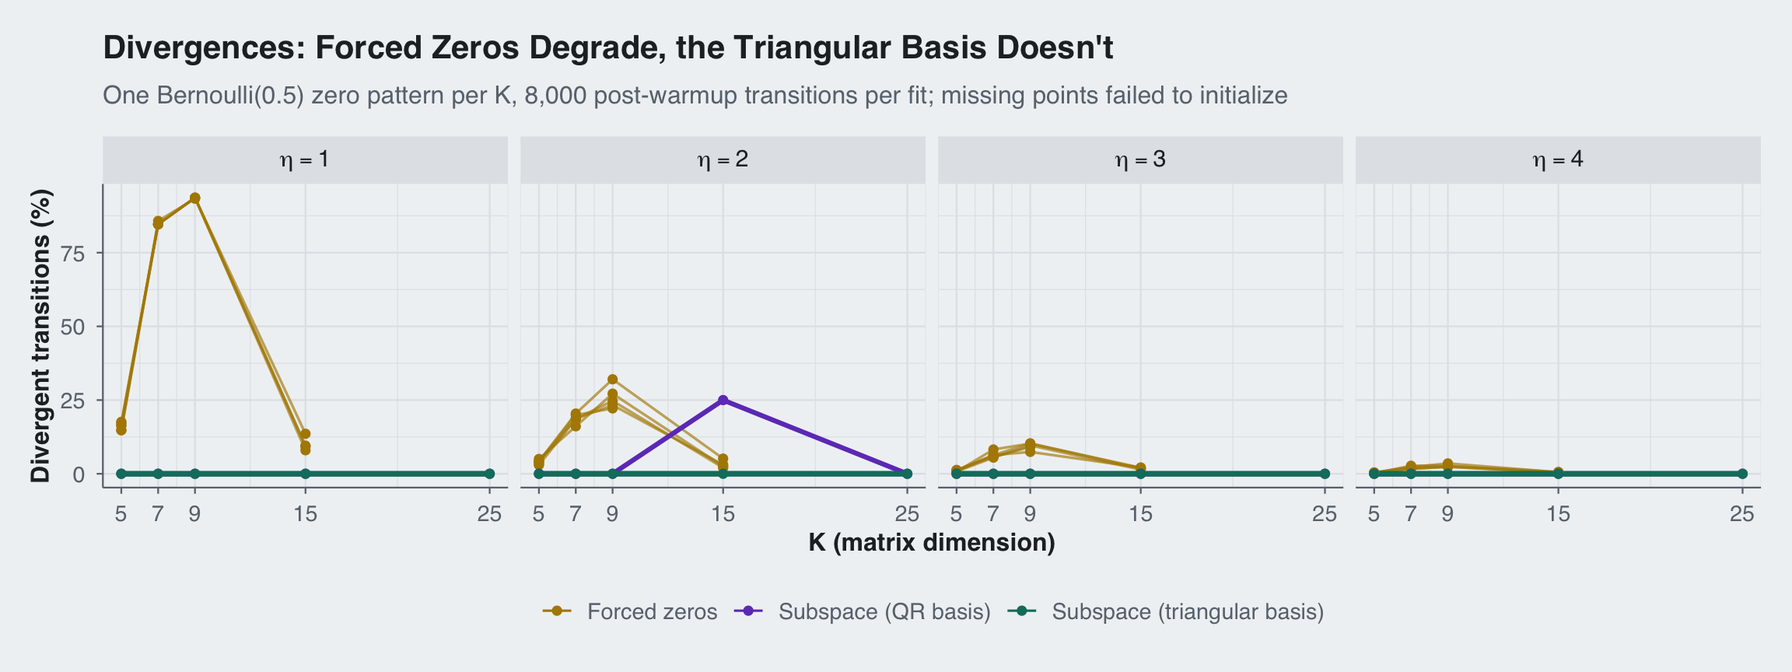
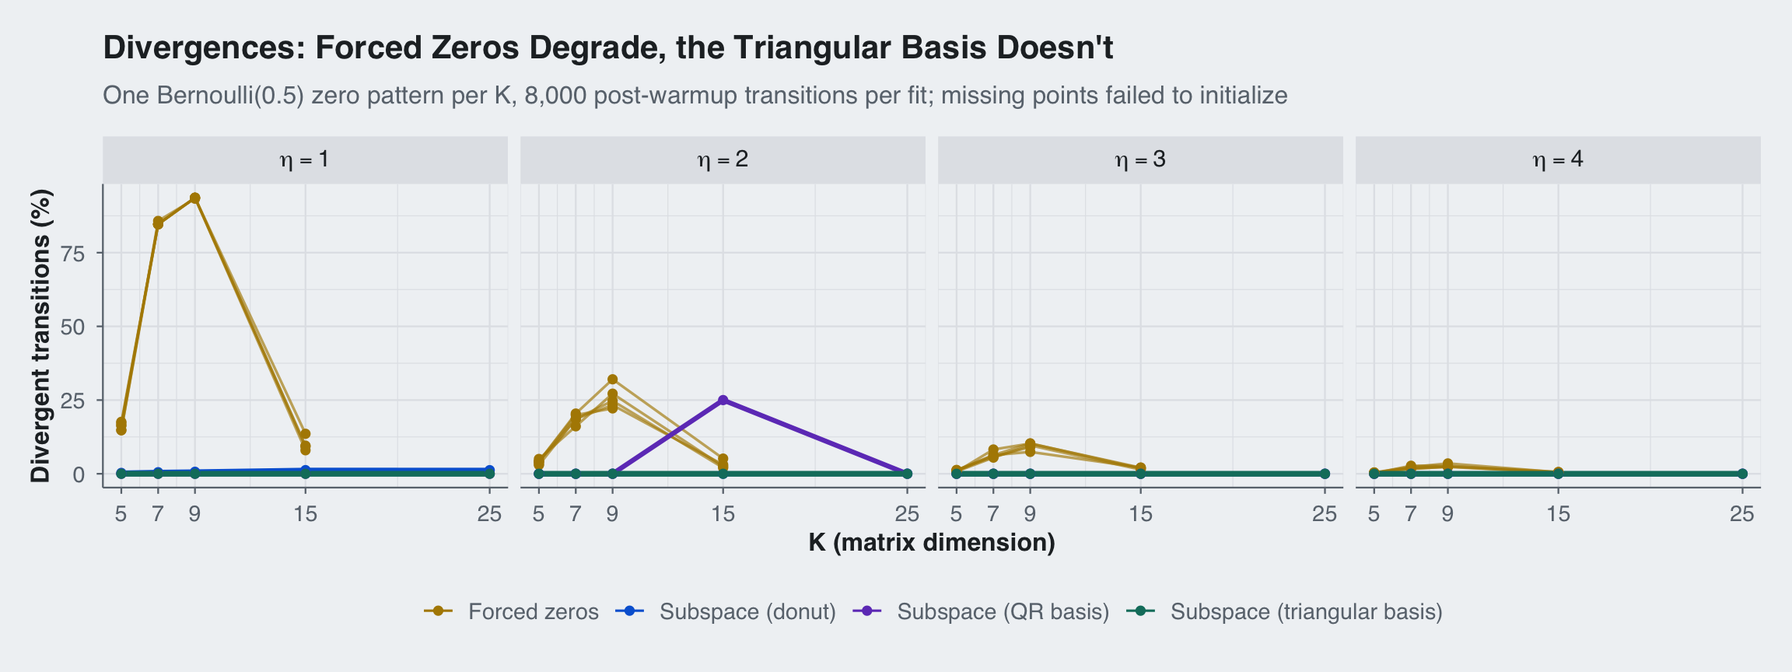
Built site for gh-pages

Changed region(s): [[0.25, 0.875, 0.8125, 0.9375], [0.0938, 0.6875, 0.2812, 0.7188]]

diff --git a/posts/post-11-corr-zeros-bakeoff/corr-zeros-bakeoff.html b/posts/post-11-corr-zeros-bakeoff/corr-zeros-bakeoff.html
@@ -328,8 +328,7 @@ b_1 = \sum_{k&lt;j} L_{ik} L_{jk},
 <li><p><strong>The Gram is small.</strong> Since <span class="math inline">\(T_F = I\)</span>, we have <span class="math inline">\(T'T = I + W'W\)</span> where <span class="math inline">\(W\)</span> holds only the <span class="math inline">\(n_z\)</span> forced-coordinate rows, so the crossprod works on length-<span class="math inline">\(n_z\)</span> vectors rather than length-<span class="math inline">\((i-1)\)</span> ones.</p></li>
 </ol>
 <p>Per constrained row, the entire construction is one <span class="math inline">\(d \times d\)</span> <code>cholesky_decompose</code> and some small matrix-vector products. No QR anywhere. I call this model <code>tri</code>; the full Stan code is in the appendix.</p>
-<p>I also tried a “donut” variant, one extra parameter per row: normalize a free vector <span class="math inline">\(y\)</span>, take <span class="math inline">\(u = y / \lVert y \rVert\)</span>, and let <span class="math inline">\(-\tfrac{1}{2} y'y\)</span> keep the radius away from trouble. Or so I thought. With that implicit chi-distributed radius it diverged worse than anything else in the field — 2,531 across the five <span class="math inline">\(K = 7\)</span> patterns in the tables below, which report this <span class="math inline">\(m = 0\)</span> baseline.</p>
-<p>The fix, fittingly, also comes from Seth Axen, in the <em>A Better Unit Vector</em> Discourse thread <span class="citation" data-cites="axen2022">(<a href="#ref-axen2022" role="doc-biblioref">Axen 2022</a>)</span>: put an explicit prior on the radius that repels it from the origin singularity of the normalization map. I used his Gaussian-centered form, replacing <span class="math inline">\(-\tfrac{1}{2}\lVert y \rVert^2\)</span> with <span class="math inline">\(-\tfrac{1}{2}(\lVert y \rVert - m)^2\)</span>. The radial factor is independent of the direction, so the <span class="math inline">\(\Omega\)</span> posterior is untouched (verified against <code>carpenter</code>: max free-cell mean difference 0.0046). The effect on sampling is not subtle. Across the five <span class="math inline">\(K = 7\)</span>, <span class="math inline">\(\eta = 4\)</span> patterns:</p>
+<p>The subspace family has a second member: a “donut” variant, one extra parameter per row. Normalize a free vector, <span class="math inline">\(u = y / \lVert y \rVert\)</span>, and the row’s subsphere coordinates come along with beautifully isotropic geometry — except that the normalization map has a singularity at the origin, and the implicit chi-distributed radius that <span class="math inline">\(-\tfrac{1}{2} y'y\)</span> places on <span class="math inline">\(\lVert y \rVert\)</span> lets the sampler wander right into it. The cure is also Seth Axen’s, from the <em>A Better Unit Vector</em> Discourse thread <span class="citation" data-cites="axen2022">(<a href="#ref-axen2022" role="doc-biblioref">Axen 2022</a>)</span>: put an explicit prior on the radius that repels the norm from the origin. I use his Gaussian-centered form, replacing <span class="math inline">\(-\tfrac{1}{2}\lVert y \rVert^2\)</span> with <span class="math inline">\(-\tfrac{1}{2}(\lVert y \rVert - m)^2\)</span>. The radial factor is independent of the direction, so the <span class="math inline">\(\Omega\)</span> posterior is untouched (verified against <code>carpenter</code>: max free-cell mean difference 0.0046); the only thing that changes is the geometry the sampler sees. Across the five <span class="math inline">\(K = 7\)</span>, <span class="math inline">\(\eta = 4\)</span> patterns:</p>
 <table class="caption-top table">
 <colgroup>
 <col style="width: 30%">
@@ -372,7 +371,7 @@ b_1 = \sum_{k&lt;j} L_{ik} L_{jk},
 </tr>
 </tbody>
 </table>
-<p>So the origin singularity, not the <span class="math inline">\(|u_{\text{last}}|\)</span> hemisphere fold, was nearly the whole problem: pushing the radial shell out to <span class="math inline">\(m = 6\)</span> joins the zero-divergence club outright, and <span class="math inline">\(m = 4\)</span> trades eight divergences in 40,000 transitions for the best raw ESS I measured at this size. I still prefer <code>tri</code> as the default — no tuning knob, <span class="math inline">\(K - 1\)</span> fewer parameters, and zero divergences without negotiation — but the donut’s rescue is a clean confirmation of Axen’s radial-prior argument, and it means the subspace family now has <em>two</em> working members.</p>
+<p>The radial prior is worth two orders of magnitude in divergences and a factor of eight in gradient efficiency. Everything below runs the donut at <span class="math inline">\(m = 6\)</span>. I still prefer <code>tri</code> as the default — no tuning knob and <span class="math inline">\(K - 1\)</span> fewer parameters — but the subspace family has two clean members.</p>
 </section>
 <section id="the-bake-off-at-k-7" class="level2">
 <h2 class="anchored" data-anchor-id="the-bake-off-at-k-7">5. The Bake-Off at K = 7</h2>
@@ -425,7 +424,7 @@ b_1 = \sum_{k&lt;j} L_{ik} L_{jk},
 <td style="text-align: right;">0</td>
 <td style="text-align: right;">0</td>
 <td style="text-align: right;"><strong>0</strong></td>
-<td style="text-align: right;">522</td>
+<td style="text-align: right;">0</td>
 </tr>
 <tr class="even">
 <td style="text-align: left;">seed 2</td>
@@ -440,7 +439,7 @@ b_1 = \sum_{k&lt;j} L_{ik} L_{jk},
 <td style="text-align: right;">0</td>
 <td style="text-align: right;">0</td>
 <td style="text-align: right;"><strong>0</strong></td>
-<td style="text-align: right;">551</td>
+<td style="text-align: right;">0</td>
 </tr>
 <tr class="odd">
 <td style="text-align: left;">seed 3</td>
@@ -455,7 +454,7 @@ b_1 = \sum_{k&lt;j} L_{ik} L_{jk},
 <td style="text-align: right;">0</td>
 <td style="text-align: right;">0</td>
 <td style="text-align: right;"><strong>0</strong></td>
-<td style="text-align: right;">500</td>
+<td style="text-align: right;">0</td>
 </tr>
 <tr class="even">
 <td style="text-align: left;">seed 4</td>
@@ -470,7 +469,7 @@ b_1 = \sum_{k&lt;j} L_{ik} L_{jk},
 <td style="text-align: right;">0</td>
 <td style="text-align: right;">0</td>
 <td style="text-align: right;"><strong>0</strong></td>
-<td style="text-align: right;">418</td>
+<td style="text-align: right;">0</td>
 </tr>
 <tr class="odd">
 <td style="text-align: left;">seed 5</td>
@@ -485,7 +484,7 @@ b_1 = \sum_{k&lt;j} L_{ik} L_{jk},
 <td style="text-align: right;">0</td>
 <td style="text-align: right;">0</td>
 <td style="text-align: right;"><strong>0</strong></td>
-<td style="text-align: right;">540</td>
+<td style="text-align: right;">0</td>
 </tr>
 <tr class="even">
 <td style="text-align: left;"><strong>total</strong></td>
@@ -500,7 +499,7 @@ b_1 = \sum_{k&lt;j} L_{ik} L_{jk},
 <td style="text-align: right;"><strong>0</strong></td>
 <td style="text-align: right;"><strong>0</strong></td>
 <td style="text-align: right;"><strong>0</strong></td>
-<td style="text-align: right;">2531</td>
+<td style="text-align: right;"><strong>0</strong></td>
 </tr>
 </tbody>
 </table>
@@ -552,7 +551,7 @@ b_1 = \sum_{k&lt;j} L_{ik} L_{jk},
 <td style="text-align: right;">3995</td>
 <td style="text-align: right;">3362</td>
 <td style="text-align: right;"><strong>11430</strong></td>
-<td style="text-align: right;">4321</td>
+<td style="text-align: right;">10676</td>
 </tr>
 <tr class="even">
 <td style="text-align: left;">seed 2</td>
@@ -567,7 +566,7 @@ b_1 = \sum_{k&lt;j} L_{ik} L_{jk},
 <td style="text-align: right;">4049</td>
 <td style="text-align: right;">3728</td>
 <td style="text-align: right;"><strong>11427</strong></td>
-<td style="text-align: right;">5049</td>
+<td style="text-align: right;">9045</td>
 </tr>
 <tr class="odd">
 <td style="text-align: left;">seed 3</td>
@@ -582,7 +581,7 @@ b_1 = \sum_{k&lt;j} L_{ik} L_{jk},
 <td style="text-align: right;">4334</td>
 <td style="text-align: right;">4304</td>
 <td style="text-align: right;">9574</td>
-<td style="text-align: right;">3795</td>
+<td style="text-align: right;">9429</td>
 </tr>
 <tr class="even">
 <td style="text-align: left;">seed 4</td>
@@ -597,7 +596,7 @@ b_1 = \sum_{k&lt;j} L_{ik} L_{jk},
 <td style="text-align: right;">3701</td>
 <td style="text-align: right;">3815</td>
 <td style="text-align: right;"><strong>9582</strong></td>
-<td style="text-align: right;">5121</td>
+<td style="text-align: right;">8161</td>
 </tr>
 <tr class="odd">
 <td style="text-align: left;">seed 5</td>
@@ -612,7 +611,7 @@ b_1 = \sum_{k&lt;j} L_{ik} L_{jk},
 <td style="text-align: right;">4267</td>
 <td style="text-align: right;">4153</td>
 <td style="text-align: right;"><strong>11284</strong></td>
-<td style="text-align: right;">4454</td>
+<td style="text-align: right;">8619</td>
 </tr>
 <tr class="even">
 <td style="text-align: left;"><strong>median</strong></td>
@@ -627,7 +626,7 @@ b_1 = \sum_{k&lt;j} L_{ik} L_{jk},
 <td style="text-align: right;">4049</td>
 <td style="text-align: right;">3815</td>
 <td style="text-align: right;"><strong>11284</strong></td>
-<td style="text-align: right;">4454</td>
+<td style="text-align: right;">9045</td>
 </tr>
 </tbody>
 </table>
@@ -679,7 +678,7 @@ b_1 = \sum_{k&lt;j} L_{ik} L_{jk},
 <td style="text-align: right;">75.0</td>
 <td style="text-align: right;">72.5</td>
 <td style="text-align: right;"><strong>207.3</strong></td>
-<td style="text-align: right;">18.7</td>
+<td style="text-align: right;">161.8</td>
 </tr>
 <tr class="even">
 <td style="text-align: left;">total wall clock, 5 fits (s)</td>
@@ -694,7 +693,7 @@ b_1 = \sum_{k&lt;j} L_{ik} L_{jk},
 <td style="text-align: right;">2.07</td>
 <td style="text-align: right;">2.06</td>
 <td style="text-align: right;"><strong>1.95</strong></td>
-<td style="text-align: right;">9.72</td>
+<td style="text-align: right;">2.39</td>
 </tr>
 </tbody>
 </table>
@@ -702,7 +701,7 @@ b_1 = \sum_{k&lt;j} L_{ik} L_{jk},
 </section>
 <section id="does-it-hold-up-scaling-k-and-eta" class="level2">
 <h2 class="anchored" data-anchor-id="does-it-hold-up-scaling-k-and-eta">6. Does It Hold Up? Scaling K and <span class="math inline">\(\eta\)</span></h2>
-<p>A single <span class="math inline">\((K, \eta)\)</span> corner is not a benchmark, so I reran a representative subset over <span class="math inline">\(K \in \{5, 7, 9, 15, 25\}\)</span> and <span class="math inline">\(\eta \in \{1, 2, 3, 4\}\)</span>: six forced-zero models, the literal QR implementation <code>qr2</code>, and <code>tri</code>. One Bernoulli(0.5) zero pattern per <span class="math inline">\(K\)</span> (realized: 6 of 10 cells at <span class="math inline">\(K=5\)</span> up to 143 of 300 at <span class="math inline">\(K=25\)</span>), shared across <span class="math inline">\(\eta\)</span>, same sampler settings as before. One fit per configuration, so the single-fit noise caveat from Section 2 applies to small gaps; the patterns below are not small.</p>
+<p>A single <span class="math inline">\((K, \eta)\)</span> corner is not a benchmark, so I reran a representative subset over <span class="math inline">\(K \in \{5, 7, 9, 15, 25\}\)</span> and <span class="math inline">\(\eta \in \{1, 2, 3, 4\}\)</span>: six forced-zero models, the literal QR implementation <code>qr2</code>, <code>tri</code>, and the donut at <span class="math inline">\(m = 6\)</span>. One Bernoulli(0.5) zero pattern per <span class="math inline">\(K\)</span> (realized: 6 of 10 cells at <span class="math inline">\(K=5\)</span> up to 143 of 300 at <span class="math inline">\(K=25\)</span>), shared across <span class="math inline">\(\eta\)</span>, same sampler settings as before. One fit per configuration, so the single-fit noise caveat from Section 2 applies to small gaps; the patterns below are not small.</p>
 <div class="cell">
 <details class="code-fold">
 <summary>Code</summary>
@@ -717,18 +716,20 @@ b_1 = \sum_{k&lt;j} L_{ik} L_{jk},
 <span id="cb2-9"><a href="#cb2-9" aria-hidden="true" tabindex="-1"></a>    <span class="at">family =</span> <span class="fu">case_when</span>(</span>
 <span id="cb2-10"><a href="#cb2-10" aria-hidden="true" tabindex="-1"></a>      model <span class="sc">==</span> <span class="st">"tri"</span> <span class="sc">~</span> <span class="st">"Subspace (triangular basis)"</span>,</span>
 <span id="cb2-11"><a href="#cb2-11" aria-hidden="true" tabindex="-1"></a>      model <span class="sc">==</span> <span class="st">"qr2"</span> <span class="sc">~</span> <span class="st">"Subspace (QR basis)"</span>,</span>
-<span id="cb2-12"><a href="#cb2-12" aria-hidden="true" tabindex="-1"></a>      <span class="at">.default =</span> <span class="st">"Forced zeros"</span></span>
-<span id="cb2-13"><a href="#cb2-13" aria-hidden="true" tabindex="-1"></a>    ),</span>
-<span id="cb2-14"><a href="#cb2-14" aria-hidden="true" tabindex="-1"></a>    <span class="at">div_pct =</span> <span class="dv">100</span> <span class="sc">*</span> divergences <span class="sc">/</span> <span class="dv">8000</span>,</span>
-<span id="cb2-15"><a href="#cb2-15" aria-hidden="true" tabindex="-1"></a>    <span class="at">eta_lab =</span> <span class="fu">factor</span>(<span class="fu">paste0</span>(<span class="st">"eta == "</span>, eta),</span>
-<span id="cb2-16"><a href="#cb2-16" aria-hidden="true" tabindex="-1"></a>                     <span class="at">levels =</span> <span class="fu">paste0</span>(<span class="st">"eta == "</span>, <span class="fu">sort</span>(<span class="fu">unique</span>(eta))))</span>
-<span id="cb2-17"><a href="#cb2-17" aria-hidden="true" tabindex="-1"></a>  )</span>
-<span id="cb2-18"><a href="#cb2-18" aria-hidden="true" tabindex="-1"></a></span>
-<span id="cb2-19"><a href="#cb2-19" aria-hidden="true" tabindex="-1"></a>fam_colors <span class="ot">&lt;-</span> <span class="fu">c</span>(</span>
-<span id="cb2-20"><a href="#cb2-20" aria-hidden="true" tabindex="-1"></a>  <span class="st">"Forced zeros"</span> <span class="ot">=</span> blog_colors<span class="sc">$</span>gold,</span>
-<span id="cb2-21"><a href="#cb2-21" aria-hidden="true" tabindex="-1"></a>  <span class="st">"Subspace (QR basis)"</span> <span class="ot">=</span> blog_colors<span class="sc">$</span>purple,</span>
-<span id="cb2-22"><a href="#cb2-22" aria-hidden="true" tabindex="-1"></a>  <span class="st">"Subspace (triangular basis)"</span> <span class="ot">=</span> blog_colors<span class="sc">$</span>teal</span>
-<span id="cb2-23"><a href="#cb2-23" aria-hidden="true" tabindex="-1"></a>)</span></code></pre></div><button title="Copy to Clipboard" class="code-copy-button"><i class="bi"></i></button></div>
+<span id="cb2-12"><a href="#cb2-12" aria-hidden="true" tabindex="-1"></a>      model <span class="sc">==</span> <span class="st">"donut"</span> <span class="sc">~</span> <span class="st">"Subspace (donut)"</span>,</span>
+<span id="cb2-13"><a href="#cb2-13" aria-hidden="true" tabindex="-1"></a>      <span class="at">.default =</span> <span class="st">"Forced zeros"</span></span>
+<span id="cb2-14"><a href="#cb2-14" aria-hidden="true" tabindex="-1"></a>    ),</span>
+<span id="cb2-15"><a href="#cb2-15" aria-hidden="true" tabindex="-1"></a>    <span class="at">div_pct =</span> <span class="dv">100</span> <span class="sc">*</span> divergences <span class="sc">/</span> <span class="dv">8000</span>,</span>
+<span id="cb2-16"><a href="#cb2-16" aria-hidden="true" tabindex="-1"></a>    <span class="at">eta_lab =</span> <span class="fu">factor</span>(<span class="fu">paste0</span>(<span class="st">"eta == "</span>, eta),</span>
+<span id="cb2-17"><a href="#cb2-17" aria-hidden="true" tabindex="-1"></a>                     <span class="at">levels =</span> <span class="fu">paste0</span>(<span class="st">"eta == "</span>, <span class="fu">sort</span>(<span class="fu">unique</span>(eta))))</span>
+<span id="cb2-18"><a href="#cb2-18" aria-hidden="true" tabindex="-1"></a>  )</span>
+<span id="cb2-19"><a href="#cb2-19" aria-hidden="true" tabindex="-1"></a></span>
+<span id="cb2-20"><a href="#cb2-20" aria-hidden="true" tabindex="-1"></a>fam_colors <span class="ot">&lt;-</span> <span class="fu">c</span>(</span>
+<span id="cb2-21"><a href="#cb2-21" aria-hidden="true" tabindex="-1"></a>  <span class="st">"Forced zeros"</span> <span class="ot">=</span> blog_colors<span class="sc">$</span>gold,</span>
+<span id="cb2-22"><a href="#cb2-22" aria-hidden="true" tabindex="-1"></a>  <span class="st">"Subspace (QR basis)"</span> <span class="ot">=</span> blog_colors<span class="sc">$</span>purple,</span>
+<span id="cb2-23"><a href="#cb2-23" aria-hidden="true" tabindex="-1"></a>  <span class="st">"Subspace (donut)"</span> <span class="ot">=</span> blog_colors<span class="sc">$</span>blue,</span>
+<span id="cb2-24"><a href="#cb2-24" aria-hidden="true" tabindex="-1"></a>  <span class="st">"Subspace (triangular basis)"</span> <span class="ot">=</span> blog_colors<span class="sc">$</span>teal</span>
+<span id="cb2-25"><a href="#cb2-25" aria-hidden="true" tabindex="-1"></a>)</span></code></pre></div><button title="Copy to Clipboard" class="code-copy-button"><i class="bi"></i></button></div>
 </details>
 </div>
 <div class="cell">
@@ -740,8 +741,8 @@ b_1 = \sum_{k&lt;j} L_{ik} L_{jk},
 <span id="cb3-4"><a href="#cb3-4" aria-hidden="true" tabindex="-1"></a>  <span class="fu">geom_point</span>(<span class="at">size =</span> <span class="fl">1.6</span>) <span class="sc">+</span></span>
 <span id="cb3-5"><a href="#cb3-5" aria-hidden="true" tabindex="-1"></a>  <span class="fu">facet_wrap</span>(<span class="sc">~</span>eta_lab, <span class="at">nrow =</span> <span class="dv">1</span>, <span class="at">labeller =</span> label_parsed) <span class="sc">+</span></span>
 <span id="cb3-6"><a href="#cb3-6" aria-hidden="true" tabindex="-1"></a>  <span class="fu">scale_color_manual</span>(<span class="at">values =</span> fam_colors, <span class="at">name =</span> <span class="cn">NULL</span>) <span class="sc">+</span></span>
-<span id="cb3-7"><a href="#cb3-7" aria-hidden="true" tabindex="-1"></a>  <span class="fu">scale_linewidth_manual</span>(<span class="at">values =</span> <span class="fu">c</span>(<span class="fl">0.6</span>, <span class="fl">1.1</span>, <span class="fl">1.3</span>), <span class="at">guide =</span> <span class="st">"none"</span>) <span class="sc">+</span></span>
-<span id="cb3-8"><a href="#cb3-8" aria-hidden="true" tabindex="-1"></a>  <span class="fu">scale_alpha_manual</span>(<span class="at">values =</span> <span class="fu">c</span>(<span class="fl">0.65</span>, <span class="dv">1</span>, <span class="dv">1</span>), <span class="at">guide =</span> <span class="st">"none"</span>) <span class="sc">+</span></span>
+<span id="cb3-7"><a href="#cb3-7" aria-hidden="true" tabindex="-1"></a>  <span class="fu">scale_linewidth_manual</span>(<span class="at">values =</span> <span class="fu">c</span>(<span class="fl">0.6</span>, <span class="fl">1.1</span>, <span class="fl">1.1</span>, <span class="fl">1.3</span>), <span class="at">guide =</span> <span class="st">"none"</span>) <span class="sc">+</span></span>
+<span id="cb3-8"><a href="#cb3-8" aria-hidden="true" tabindex="-1"></a>  <span class="fu">scale_alpha_manual</span>(<span class="at">values =</span> <span class="fu">c</span>(<span class="fl">0.65</span>, <span class="dv">1</span>, <span class="dv">1</span>, <span class="dv">1</span>), <span class="at">guide =</span> <span class="st">"none"</span>) <span class="sc">+</span></span>
 <span id="cb3-9"><a href="#cb3-9" aria-hidden="true" tabindex="-1"></a>  <span class="fu">scale_x_continuous</span>(<span class="at">breaks =</span> <span class="fu">c</span>(<span class="dv">5</span>, <span class="dv">7</span>, <span class="dv">9</span>, <span class="dv">15</span>, <span class="dv">25</span>)) <span class="sc">+</span></span>
 <span id="cb3-10"><a href="#cb3-10" aria-hidden="true" tabindex="-1"></a>  <span class="fu">theme_blog</span>() <span class="sc">+</span></span>
 <span id="cb3-11"><a href="#cb3-11" aria-hidden="true" tabindex="-1"></a>  <span class="fu">labs</span>(</span>
@@ -759,7 +760,7 @@ b_1 = \sum_{k&lt;j} L_{ik} L_{jk},
 <img src="corr-zeros-bakeoff_files/figure-html/fig-divergence-scaling-1.png" class="img-fluid figure-img" style="width:100.0%">
 </div>
 <figcaption class="quarto-float-caption-bottom quarto-float-caption quarto-float-fig" id="fig-divergence-scaling-caption-0ceaefa1-69ba-4598-a22c-09a6ac19f8ca">
-Figure&nbsp;1: Divergence rate by matrix dimension and LKJ concentration. Each thin gold line is one forced-zero parameterization; lines that stop mid-panel are models that failed to initialize at the next K. The teal line (tri) is exactly zero in every panel. The purple spike is qr2’s catastrophic run at K = 15, eta = 2: one chain stuck at 100% divergence.
+Figure&nbsp;1: Divergence rate by matrix dimension and LKJ concentration. Each thin gold line is one forced-zero parameterization; lines that stop mid-panel are models that failed to initialize at the next K. The teal line (tri) is exactly zero in every panel. The purple spike is qr2’s catastrophic run at K = 15, eta = 2: one chain stuck at 100% divergence. The blue donut line keeps a residual sub-1.5% rate at eta = 1.
 </figcaption>
 </figure>
 </div>
@@ -774,8 +775,8 @@ Figure&nbsp;1: Divergence rate by matrix dimension and LKJ concentration. Each t
 <span id="cb4-4"><a href="#cb4-4" aria-hidden="true" tabindex="-1"></a>  <span class="fu">geom_point</span>(<span class="at">size =</span> <span class="fl">1.6</span>) <span class="sc">+</span></span>
 <span id="cb4-5"><a href="#cb4-5" aria-hidden="true" tabindex="-1"></a>  <span class="fu">facet_wrap</span>(<span class="sc">~</span>eta_lab, <span class="at">nrow =</span> <span class="dv">1</span>, <span class="at">labeller =</span> label_parsed) <span class="sc">+</span></span>
 <span id="cb4-6"><a href="#cb4-6" aria-hidden="true" tabindex="-1"></a>  <span class="fu">scale_color_manual</span>(<span class="at">values =</span> fam_colors, <span class="at">name =</span> <span class="cn">NULL</span>) <span class="sc">+</span></span>
-<span id="cb4-7"><a href="#cb4-7" aria-hidden="true" tabindex="-1"></a>  <span class="fu">scale_linewidth_manual</span>(<span class="at">values =</span> <span class="fu">c</span>(<span class="fl">0.6</span>, <span class="fl">1.1</span>, <span class="fl">1.3</span>), <span class="at">guide =</span> <span class="st">"none"</span>) <span class="sc">+</span></span>
-<span id="cb4-8"><a href="#cb4-8" aria-hidden="true" tabindex="-1"></a>  <span class="fu">scale_alpha_manual</span>(<span class="at">values =</span> <span class="fu">c</span>(<span class="fl">0.65</span>, <span class="dv">1</span>, <span class="dv">1</span>), <span class="at">guide =</span> <span class="st">"none"</span>) <span class="sc">+</span></span>
+<span id="cb4-7"><a href="#cb4-7" aria-hidden="true" tabindex="-1"></a>  <span class="fu">scale_linewidth_manual</span>(<span class="at">values =</span> <span class="fu">c</span>(<span class="fl">0.6</span>, <span class="fl">1.1</span>, <span class="fl">1.1</span>, <span class="fl">1.3</span>), <span class="at">guide =</span> <span class="st">"none"</span>) <span class="sc">+</span></span>
+<span id="cb4-8"><a href="#cb4-8" aria-hidden="true" tabindex="-1"></a>  <span class="fu">scale_alpha_manual</span>(<span class="at">values =</span> <span class="fu">c</span>(<span class="fl">0.65</span>, <span class="dv">1</span>, <span class="dv">1</span>, <span class="dv">1</span>), <span class="at">guide =</span> <span class="st">"none"</span>) <span class="sc">+</span></span>
 <span id="cb4-9"><a href="#cb4-9" aria-hidden="true" tabindex="-1"></a>  <span class="fu">scale_x_continuous</span>(<span class="at">breaks =</span> <span class="fu">c</span>(<span class="dv">5</span>, <span class="dv">7</span>, <span class="dv">9</span>, <span class="dv">15</span>, <span class="dv">25</span>)) <span class="sc">+</span></span>
 <span id="cb4-10"><a href="#cb4-10" aria-hidden="true" tabindex="-1"></a>  <span class="fu">scale_y_log10</span>() <span class="sc">+</span></span>
 <span id="cb4-11"><a href="#cb4-11" aria-hidden="true" tabindex="-1"></a>  <span class="fu">theme_blog</span>() <span class="sc">+</span></span>
@@ -968,7 +969,7 @@ Figure&nbsp;2: Sampling efficiency (min bulk ESS over free correlations per 1,00
 </table>
 </div>
 </div>
-<p><strong>Anchoring the basis is not a nicety.</strong> The literal QR implementation survives everywhere the forced family dies, but it pays for the spinning frame: at <span class="math inline">\(K = 25\)</span>, <span class="math inline">\(\eta = 1\)</span> it needed 852 seconds against <code>tri</code>’s 6.8, and at <span class="math inline">\(K = 15\)</span>, <span class="math inline">\(\eta = 2\)</span> it failed catastrophically, one chain pinned at 100% divergence and a min ESS of 7. (The forced family has its own catastrophic mode: <code>ldl3</code> at <span class="math inline">\(K = 9\)</span>, <span class="math inline">\(\eta = 2\)</span> came back with a min ESS of 19.) Interestingly, <code>qr2</code>’s <em>raw</em> min ESS at <span class="math inline">\(K = 25\)</span> is higher than <code>tri</code>’s — about 3,900 vs 1,200 of 8,000 draws — but it burns 6–100<span class="math inline">\(\times\)</span> the gradient evaluations to get it. Per gradient, and per second, <code>tri</code> wins every configuration in the sweep: zero divergences in all twenty, flat wall clock, and the best efficiency in the field.</p>
+<p><strong>Anchoring the basis is not a nicety.</strong> The literal QR implementation survives everywhere the forced family dies, but it pays for the spinning frame: at <span class="math inline">\(K = 25\)</span>, <span class="math inline">\(\eta = 1\)</span> it needed 852 seconds against <code>tri</code>’s 6.8, and at <span class="math inline">\(K = 15\)</span>, <span class="math inline">\(\eta = 2\)</span> it failed catastrophically, one chain pinned at 100% divergence and a min ESS of 7. (The forced family has its own catastrophic mode: <code>ldl3</code> at <span class="math inline">\(K = 9\)</span>, <span class="math inline">\(\eta = 2\)</span> came back with a min ESS of 19.) Interestingly, <code>qr2</code>’s <em>raw</em> min ESS at <span class="math inline">\(K = 25\)</span> is higher than <code>tri</code>’s — about 3,900 vs 1,200 of 8,000 draws — but it burns 6–100<span class="math inline">\(\times\)</span> the gradient evaluations to get it. Per gradient, and per second, <code>tri</code> is the class of the field: the only model at exactly zero divergences in all twenty configurations (the donut keeps a residual sub-1.5% rate at <span class="math inline">\(\eta = 1\)</span>), flat wall clock, and the best ESS per gradient in every cell but one (<span class="math inline">\(K = 25\)</span>, <span class="math inline">\(\eta = 4\)</span>, where the donut edges it).</p>
 </section>
 <section id="when-to-use-which" class="level2">
 <h2 class="anchored" data-anchor-id="when-to-use-which">7. When to Use Which</h2>
@@ -1015,7 +1016,7 @@ Figure&nbsp;2: Sampling efficiency (min bulk ESS over free correlations per 1,00
 </section>
 <section id="acknowledgments" class="level2">
 <h2 class="anchored" data-anchor-id="acknowledgments">Acknowledgments</h2>
-<p>The exact-constraint subspace idea, zeros as orthogonality constraints with the sample lifted from a lower-dimensional hemisphere through the orthogonal complement, including the <span class="math inline">\(\det R\)</span> Jacobian factor, is due to Seth Axen <span class="citation" data-cites="axen2023">(<a href="#ref-axen2023" role="doc-biblioref">Axen 2023</a>)</span>, who also supplied the radial-prior fix that rescued the donut variant <span class="citation" data-cites="axen2022">(<a href="#ref-axen2022" role="doc-biblioref">Axen 2022</a>)</span>. The <code>tri</code> model is that idea with a canonical triangular choice of complement basis and the determinant factored analytically. Thanks to Bob Carpenter for the compact zeros-only formulation benchmarked here as <code>carpenter</code>, and for the Discourse conversation that prompted this bake-off. The C-vine construction rests on the vine and partial-correlation results of <span class="citation" data-cites="joe2006">Joe (<a href="#ref-joe2006" role="doc-biblioref">2006</a>)</span> and <span class="citation" data-cites="lewandowski2009">Lewandowski et al. (<a href="#ref-lewandowski2009" role="doc-biblioref">2009</a>)</span>.</p>
+<p>The exact-constraint subspace idea, zeros as orthogonality constraints with the sample lifted from a lower-dimensional hemisphere through the orthogonal complement, including the <span class="math inline">\(\det R\)</span> Jacobian factor, is due to Seth Axen <span class="citation" data-cites="axen2023">(<a href="#ref-axen2023" role="doc-biblioref">Axen 2023</a>)</span>, whose radial prior <span class="citation" data-cites="axen2022">(<a href="#ref-axen2022" role="doc-biblioref">Axen 2022</a>)</span> the donut variant relies on. The <code>tri</code> model is that idea with a canonical triangular choice of complement basis and the determinant factored analytically. Thanks to Bob Carpenter for the compact zeros-only formulation benchmarked here as <code>carpenter</code>, and for the Discourse conversation that prompted this bake-off. The C-vine construction rests on the vine and partial-correlation results of <span class="citation" data-cites="joe2006">Joe (<a href="#ref-joe2006" role="doc-biblioref">2006</a>)</span> and <span class="citation" data-cites="lewandowski2009">Lewandowski et al. (<a href="#ref-lewandowski2009" role="doc-biblioref">2009</a>)</span>.</p>
 </section>
 <section id="appendix-stan-code-for-tri" class="level2">
 <h2 class="anchored" data-anchor-id="appendix-stan-code-for-tri">Appendix: Stan Code for <code>tri</code></h2>

diff --git a/index.html b/index.html
@@ -242,7 +242,7 @@ window.Quarto = {
     </div>
 </div>
 <div class="list quarto-listing-default">
-<div class="quarto-post image-right" data-index="0" data-categories="c3RhbiUyQ2NvcnJlbGF0aW9uJTJDcGFyYW1ldGVyaXphdGlvbnM=" data-listing-date-sort="1784073600000" data-listing-file-modified-sort="1784130968288" data-listing-date-modified-sort="NaN" data-listing-reading-time-sort="21" data-listing-word-count-sort="4049">
+<div class="quarto-post image-right" data-index="0" data-categories="c3RhbiUyQ2NvcnJlbGF0aW9uJTJDcGFyYW1ldGVyaXphdGlvbnM=" data-listing-date-sort="1784073600000" data-listing-file-modified-sort="1784131833934" data-listing-date-modified-sort="NaN" data-listing-reading-time-sort="21" data-listing-word-count-sort="4074">
 <div class="thumbnail"><a href="./posts/post-11-corr-zeros-bakeoff/corr-zeros-bakeoff.html" class="no-external">
 
 <p class="card-img-top"><img loading='lazy' src="posts/post-11-corr-zeros-bakeoff/corr-zeros-bakeoff_files/figure-html/fig-divergence-scaling-1.png"  class="thumbnail-image card-img"/></p>
@@ -279,7 +279,7 @@ Sean Pinkney
 </a>
 </div>
 </div>
-<div class="quarto-post image-right" data-index="1" data-categories="c3RhbiUyQ2NvcnJlbGF0aW9u" data-listing-date-sort="1774915200000" data-listing-file-modified-sort="1784130968916" data-listing-date-modified-sort="NaN" data-listing-reading-time-sort="24" data-listing-word-count-sort="4649">
+<div class="quarto-post image-right" data-index="1" data-categories="c3RhbiUyQ2NvcnJlbGF0aW9u" data-listing-date-sort="1774915200000" data-listing-file-modified-sort="1784131834419" data-listing-date-modified-sort="NaN" data-listing-reading-time-sort="24" data-listing-word-count-sort="4649">
 <div class="thumbnail"><a href="./posts/post-5-compound-symmetric-block-toeplitz/compound-symmetric.html" class="no-external">
 
 <p class="card-img-top"><img loading='lazy' src="posts/post-5-compound-symmetric-block-toeplitz/compound-symmetric_files/figure-html/fig-recovery-1.png"  class="thumbnail-image card-img"/></p>
@@ -314,7 +314,7 @@ Sean Pinkney
 </a>
 </div>
 </div>
-<div class="quarto-post image-right" data-index="2" data-categories="c3RhbiUyQ21vZGVs" data-listing-date-sort="1772236800000" data-listing-file-modified-sort="1784130968905" data-listing-date-modified-sort="NaN" data-listing-reading-time-sort="28" data-listing-word-count-sort="5581">
+<div class="quarto-post image-right" data-index="2" data-categories="c3RhbiUyQ21vZGVs" data-listing-date-sort="1772236800000" data-listing-file-modified-sort="1784131834410" data-listing-date-modified-sort="NaN" data-listing-reading-time-sort="28" data-listing-word-count-sort="5581">
 <div class="thumbnail"><a href="./posts/post-4-poincare-lca/poincare-lca.html" class="no-external">
 
 <p class="card-img-top"><img loading='lazy' src="posts/post-4-poincare-lca/poincare-lca_files/figure-html/fig-disk-output-1.png"  class="thumbnail-image card-img"/></p>
@@ -349,7 +349,7 @@ Sean Pinkney
 </a>
 </div>
 </div>
-<div class="quarto-post image-right" data-index="3" data-categories="c3RhbiUyQ3BhcmFtZXRlcml6YXRpb25z" data-listing-date-sort="1768435200000" data-listing-file-modified-sort="1784130968876" data-listing-date-modified-sort="NaN" data-listing-reading-time-sort="7" data-listing-word-count-sort="1323">
+<div class="quarto-post image-right" data-index="3" data-categories="c3RhbiUyQ3BhcmFtZXRlcml6YXRpb25z" data-listing-date-sort="1768435200000" data-listing-file-modified-sort="1784131834387" data-listing-date-modified-sort="NaN" data-listing-reading-time-sort="7" data-listing-word-count-sort="1323">
 <div class="thumbnail"><a href="./posts/post-3-better-unit-vector/a-better-unit-vector.html" class="no-external">
 
 <p class="card-img-top"><img loading='lazy' src="posts/post-3-better-unit-vector/a-better-unit-vector_files/figure-html/uniformity-plot-1.png"  class="thumbnail-image card-img"/></p>
@@ -384,7 +384,7 @@ Sean Pinkney
 </a>
 </div>
 </div>
-<div class="quarto-post image-right" data-index="4" data-categories="c3RhbiUyQ3F1YW50aWxl" data-listing-date-sort="1666483200000" data-listing-file-modified-sort="1784130968876" data-listing-date-modified-sort="NaN" data-listing-reading-time-sort="7" data-listing-word-count-sort="1340">
+<div class="quarto-post image-right" data-index="4" data-categories="c3RhbiUyQ3F1YW50aWxl" data-listing-date-sort="1666483200000" data-listing-file-modified-sort="1784131834387" data-listing-date-modified-sort="NaN" data-listing-reading-time-sort="7" data-listing-word-count-sort="1340">
 <div class="thumbnail"><a href="./posts/post-2-quantile-reg-series/post-2-quantile-reg-part-III/quantile-reg-part-III.html" class="no-external">
 
 <div class="listing-item-img-placeholder card-img-top" >&nbsp;</div>
@@ -419,7 +419,7 @@ Sean Pinkney
 </a>
 </div>
 </div>
-<div class="quarto-post image-right" data-index="5" data-categories="c3RhbiUyQ3F1YW50aWxl" data-listing-date-sort="1666051200000" data-listing-file-modified-sort="1784130968874" data-listing-date-modified-sort="NaN" data-listing-reading-time-sort="13" data-listing-word-count-sort="2462">
+<div class="quarto-post image-right" data-index="5" data-categories="c3RhbiUyQ3F1YW50aWxl" data-listing-date-sort="1666051200000" data-listing-file-modified-sort="1784131834386" data-listing-date-modified-sort="NaN" data-listing-reading-time-sort="13" data-listing-word-count-sort="2462">
 <div class="thumbnail"><a href="./posts/post-2-quantile-reg-series/post-2-quantile-reg-part-II/quantile-reg-part-II.html" class="no-external">
 
 <div class="listing-item-img-placeholder card-img-top" >&nbsp;</div>
@@ -454,7 +454,7 @@ Sean Pinkney
 </a>
 </div>
 </div>
-<div class="quarto-post image-right" data-index="6" data-categories="c3RhbiUyQ3F1YW50aWxl" data-listing-date-sort="1665792000000" data-listing-file-modified-sort="1784130968862" data-listing-date-modified-sort="NaN" data-listing-reading-time-sort="8" data-listing-word-count-sort="1558">
+<div class="quarto-post image-right" data-index="6" data-categories="c3RhbiUyQ3F1YW50aWxl" data-listing-date-sort="1665792000000" data-listing-file-modified-sort="1784131834377" data-listing-date-modified-sort="NaN" data-listing-reading-time-sort="8" data-listing-word-count-sort="1558">
 <div class="thumbnail"><a href="./posts/post-2-quantile-reg-series/post-2-quantile-reg-part-I/quantile-reg.html" class="no-external">
 
 <p class="card-img-top"><img loading='lazy' src="posts/post-2-quantile-reg-series/post-2-quantile-reg-part-I/quantile-reg_files/figure-html/unnamed-chunk-8-1.png"  class="thumbnail-image card-img"/></p>
@@ -489,7 +489,7 @@ Sean Pinkney
 </a>
 </div>
 </div>
-<div class="quarto-post image-right" data-index="7" data-categories="c3RhbiUyQ3F1YW50aWxl" data-listing-date-sort="1665705600000" data-listing-file-modified-sort="1784130968233" data-listing-date-modified-sort="NaN" data-listing-reading-time-sort="10" data-listing-word-count-sort="1883">
+<div class="quarto-post image-right" data-index="7" data-categories="c3RhbiUyQ3F1YW50aWxl" data-listing-date-sort="1665705600000" data-listing-file-modified-sort="1784131833892" data-listing-date-modified-sort="NaN" data-listing-reading-time-sort="10" data-listing-word-count-sort="1883">
 <div class="thumbnail"><a href="./posts/post-1-vasciek/vasciek_post.html" class="no-external">
 
 <p class="card-img-top"><img loading='lazy' src="posts/post-1-vasciek/vasciek_post_files/figure-html/unnamed-chunk-6-1.png"  class="thumbnail-image card-img"/></p>

diff --git a/quantile-reg-series.html b/quantile-reg-series.html
@@ -212,7 +212,7 @@ window.Quarto = {
 
 <div class="quarto-listing quarto-listing-container-default" id="listing-listing">
 <div class="list quarto-listing-default">
-<div class="quarto-post image-right" data-index="0" data-categories="c3RhbiUyQ3F1YW50aWxl" data-listing-date-sort="1666483200000" data-listing-file-modified-sort="1784130968876" data-listing-date-modified-sort="NaN" data-listing-reading-time-sort="7" data-listing-word-count-sort="1340">
+<div class="quarto-post image-right" data-index="0" data-categories="c3RhbiUyQ3F1YW50aWxl" data-listing-date-sort="1666483200000" data-listing-file-modified-sort="1784131834387" data-listing-date-modified-sort="NaN" data-listing-reading-time-sort="7" data-listing-word-count-sort="1340">
 <div class="body">
 <h3 class="no-anchor listing-title">
 <a href="./posts/post-2-quantile-reg-series/post-2-quantile-reg-part-III/quantile-reg-part-III.html" class="no-external">Quantile Regressions in Stan: Part III</a>
@@ -230,7 +230,7 @@ Oct 23, 2022
 </a>
 </div>
 </div>
-<div class="quarto-post image-right" data-index="1" data-categories="c3RhbiUyQ3F1YW50aWxl" data-listing-date-sort="1666051200000" data-listing-file-modified-sort="1784130968874" data-listing-date-modified-sort="NaN" data-listing-reading-time-sort="13" data-listing-word-count-sort="2462">
+<div class="quarto-post image-right" data-index="1" data-categories="c3RhbiUyQ3F1YW50aWxl" data-listing-date-sort="1666051200000" data-listing-file-modified-sort="1784131834386" data-listing-date-modified-sort="NaN" data-listing-reading-time-sort="13" data-listing-word-count-sort="2462">
 <div class="body">
 <h3 class="no-anchor listing-title">
 <a href="./posts/post-2-quantile-reg-series/post-2-quantile-reg-part-II/quantile-reg-part-II.html" class="no-external">Quantile Regressions in Stan: Part II</a>
@@ -248,7 +248,7 @@ Oct 18, 2022
 </a>
 </div>
 </div>
-<div class="quarto-post image-right" data-index="2" data-categories="c3RhbiUyQ3F1YW50aWxl" data-listing-date-sort="1665792000000" data-listing-file-modified-sort="1784130968862" data-listing-date-modified-sort="NaN" data-listing-reading-time-sort="8" data-listing-word-count-sort="1558">
+<div class="quarto-post image-right" data-index="2" data-categories="c3RhbiUyQ3F1YW50aWxl" data-listing-date-sort="1665792000000" data-listing-file-modified-sort="1784131834377" data-listing-date-modified-sort="NaN" data-listing-reading-time-sort="8" data-listing-word-count-sort="1558">
 <div class="body">
 <h3 class="no-anchor listing-title">
 <a href="./posts/post-2-quantile-reg-series/post-2-quantile-reg-part-I/quantile-reg.html" class="no-external">Quantile Regressions in Stan: Part I</a>
